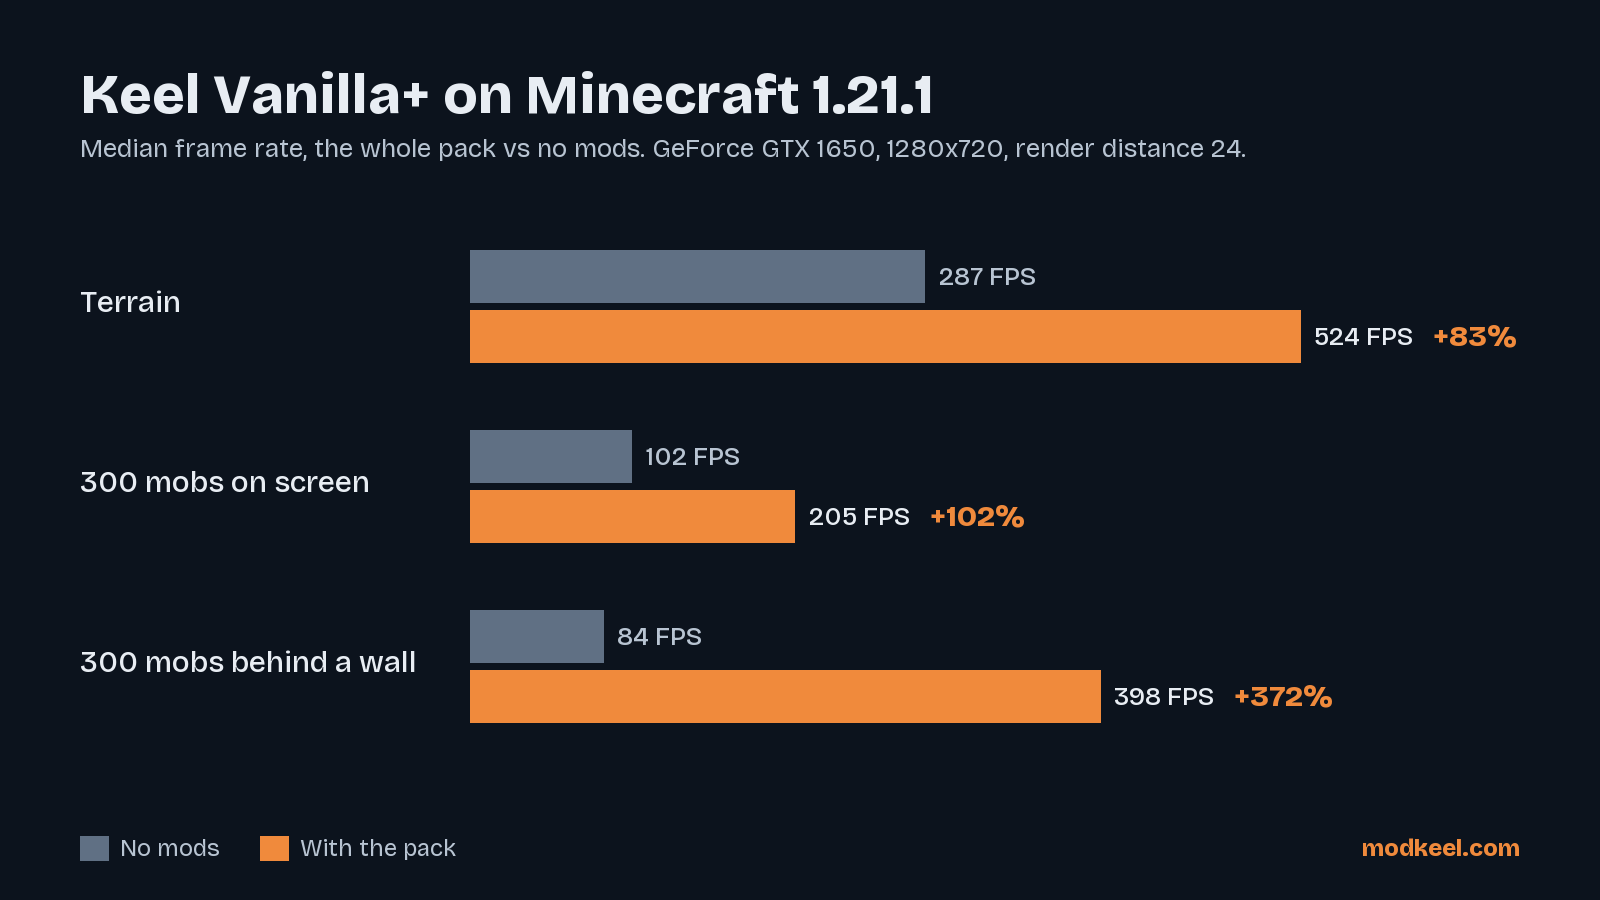
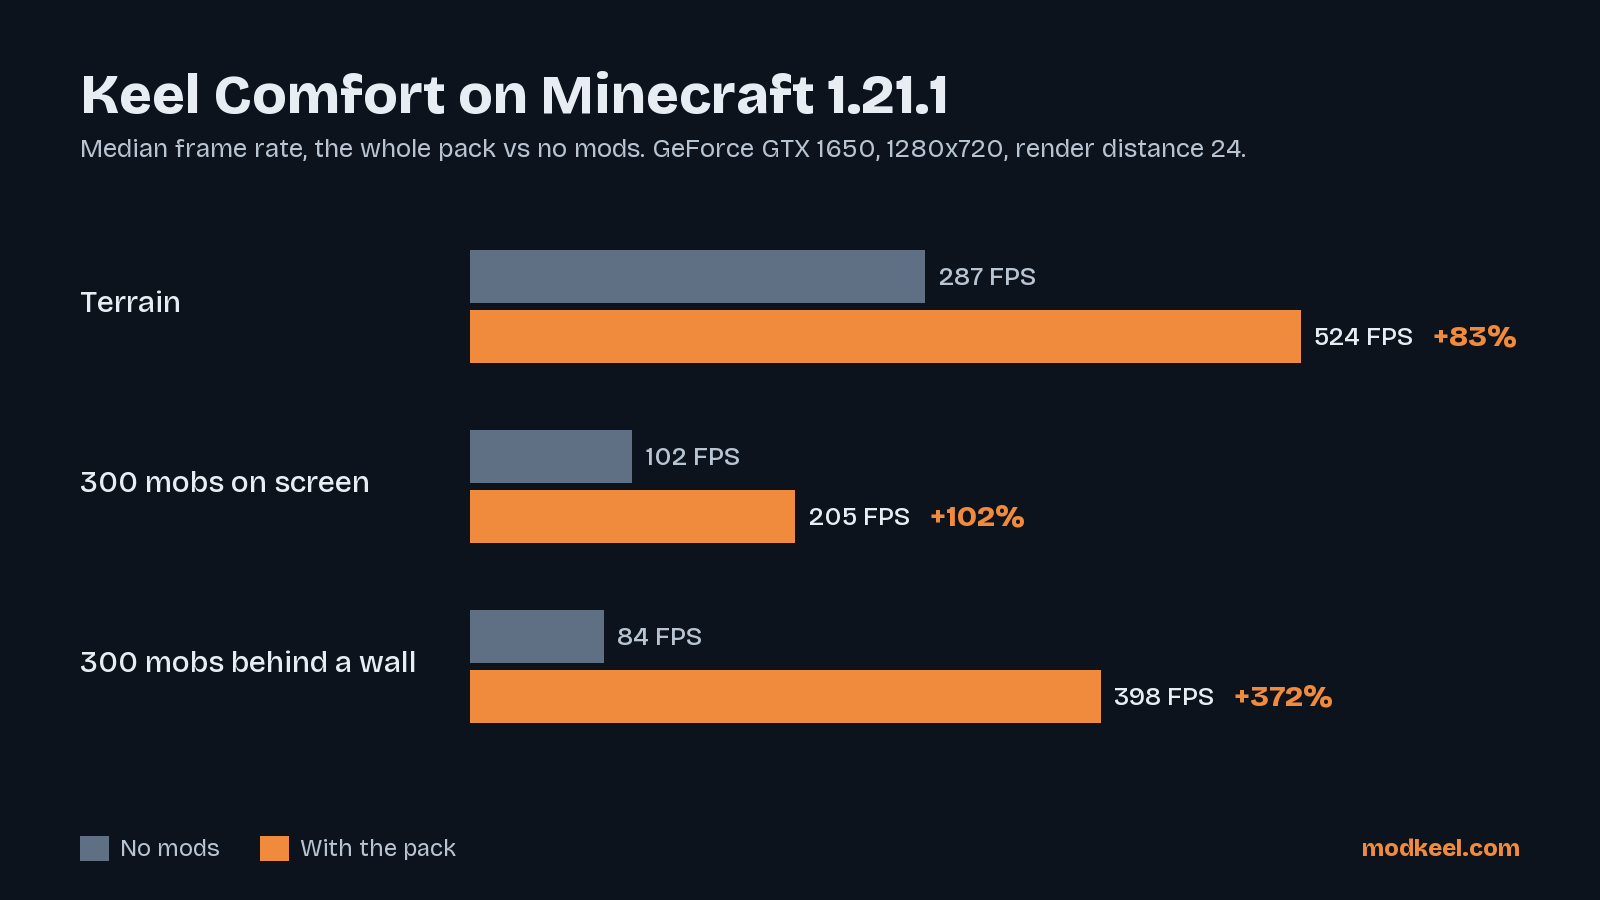
feat(packs): rename Keel Vanilla+ to Keel Comfort
CurseForge review no longer accepts "Vanilla" names. Same mods and slug
folder; the name, description, measured charts and issue forms change.

Changed region(s): [[0.125, 0.0622, 0.5938, 0.1244]]

diff --git a/vanilla-plus/curseforge.md b/vanilla-plus/curseforge.md
@@ -1,7 +1,7 @@
-<!-- CurseForge description of Keel Vanilla+ (paste in Markdown mode). Summary field: -->
+<!-- CurseForge description of Keel Comfort (paste in Markdown mode). Summary field: -->
 <!-- Vanilla Minecraft, faster and friendlier: measured optimizers plus the quality-of-life mods most packs carry, client-side only. -->
 
-# Keel Vanilla+
+# Keel Comfort
 
 **Vanilla Minecraft, faster and friendlier.** The measured optimizers of Keel Performance,
 plus the quality-of-life mods that Fabric modpacks carry most. Every one is client-side: no new
@@ -9,7 +9,7 @@ blocks, items or recipes, so it joins any vanilla server and your worlds stay va
 [Modkeel lab](https://modkeel.com) measured what each mod costs before it got in, and the whole
 pack is started on a real server and client before each release.
 
-![Keel Vanilla+ against no mods on Minecraft 26.2: frame rate in three scenes](https://raw.githubusercontent.com/Modkeel/packs/main/vanilla-plus/gallery/measured-26.2.png)
+![Keel Comfort against no mods on Minecraft 26.2: frame rate in three scenes](https://raw.githubusercontent.com/Modkeel/packs/main/vanilla-plus/gallery/measured-26.2.png)
 
 [![Modkeel lab](https://img.shields.io/badge/Lab_data-modkeel.com-f08a3c?style=for-the-badge&labelColor=0c131d)](https://modkeel.com/minecraft/) [![Crashed](https://img.shields.io/badge/Crashed-Find_the_mod-f08a3c?style=for-the-badge&labelColor=0c131d)](https://modkeel.com/crashes/diagnose) [![Discord](https://img.shields.io/badge/Discord-Join-5865F2?style=for-the-badge&labelColor=0c131d&logo=discord&logoColor=white)](https://discord.gg/9MPy4ucDCC)
 
@@ -34,7 +34,7 @@ Lithium, FerriteCore, ModernFix (1.21.1), Dynamic FPS.
 | Mod Menu, Cloth Config, YetAnotherConfigLib, Fabric Language Kotlin, Fabric API | Settings screens and the libraries the mods need |
 | [Modkeel Companion](https://www.curseforge.com/minecraft/mc-mods/modkeel) | World copies before mod changes, crash diagnosis |
 
-![In survival with Keel Vanilla+: Jade names the block in the crosshair](https://raw.githubusercontent.com/Modkeel/packs/main/vanilla-plus/gallery/hud-village.png)
+![In survival with Keel Comfort: Jade names the block in the crosshair](https://raw.githubusercontent.com/Modkeel/packs/main/vanilla-plus/gallery/hud-village.png)
 
 **Left out on purpose:** Xaero's Minimap and World Map. Added to this pack on 1.21.1 they took
 the terrain frame rate from 524 to 304 FPS (-43%) and 300 mobs on screen from 202 to 155. Every
@@ -46,7 +46,7 @@ The whole pack against the same game with no mods, on one PC (GeForce GTX 1650),
 render distance 24, no VSync. Median frame rate, two rounds, a no-mods run before and after
 every pack run:
 
-![Keel Vanilla+ against no mods on Minecraft 1.21.1](https://raw.githubusercontent.com/Modkeel/packs/main/vanilla-plus/gallery/measured-1.21.1.png)
+![Keel Comfort against no mods on Minecraft 1.21.1](https://raw.githubusercontent.com/Modkeel/packs/main/vanilla-plus/gallery/measured-1.21.1.png)
 
 | Minecraft | Terrain | 300 mobs on screen | 300 mobs behind a wall |
 |---|---|---|---|

diff --git a/README.md b/README.md
@@ -8,7 +8,7 @@ with a pack here: [open an issue](https://github.com/Modkeel/packs/issues/new?te
 |---|---|---|
 | Keel Performance | 1.21.1, 26.2 (Fabric) | [CurseForge](https://www.curseforge.com/minecraft/modpacks/keel-performance) |
 | Keel Shaders | 26.2 (Fabric) | [CurseForge](https://www.curseforge.com/minecraft/modpacks/keel-shaders) |
-| Keel Vanilla+ | 1.21.1, 26.2 (Fabric) | [CurseForge](https://www.curseforge.com/minecraft/modpacks/keel-vanilla-plus) |
+| Keel Comfort | 1.21.1, 26.2 (Fabric) | [CurseForge](https://www.curseforge.com/minecraft/modpacks/keel-vanilla-plus) |
 | Keel: Better Structures | 26.2 (Fabric) | [Modrinth](https://modrinth.com/modpack/eV8jcYlQ) |
 
 Every pack ships the [Modkeel Companion](https://github.com/Modkeel/companion), which backs up
